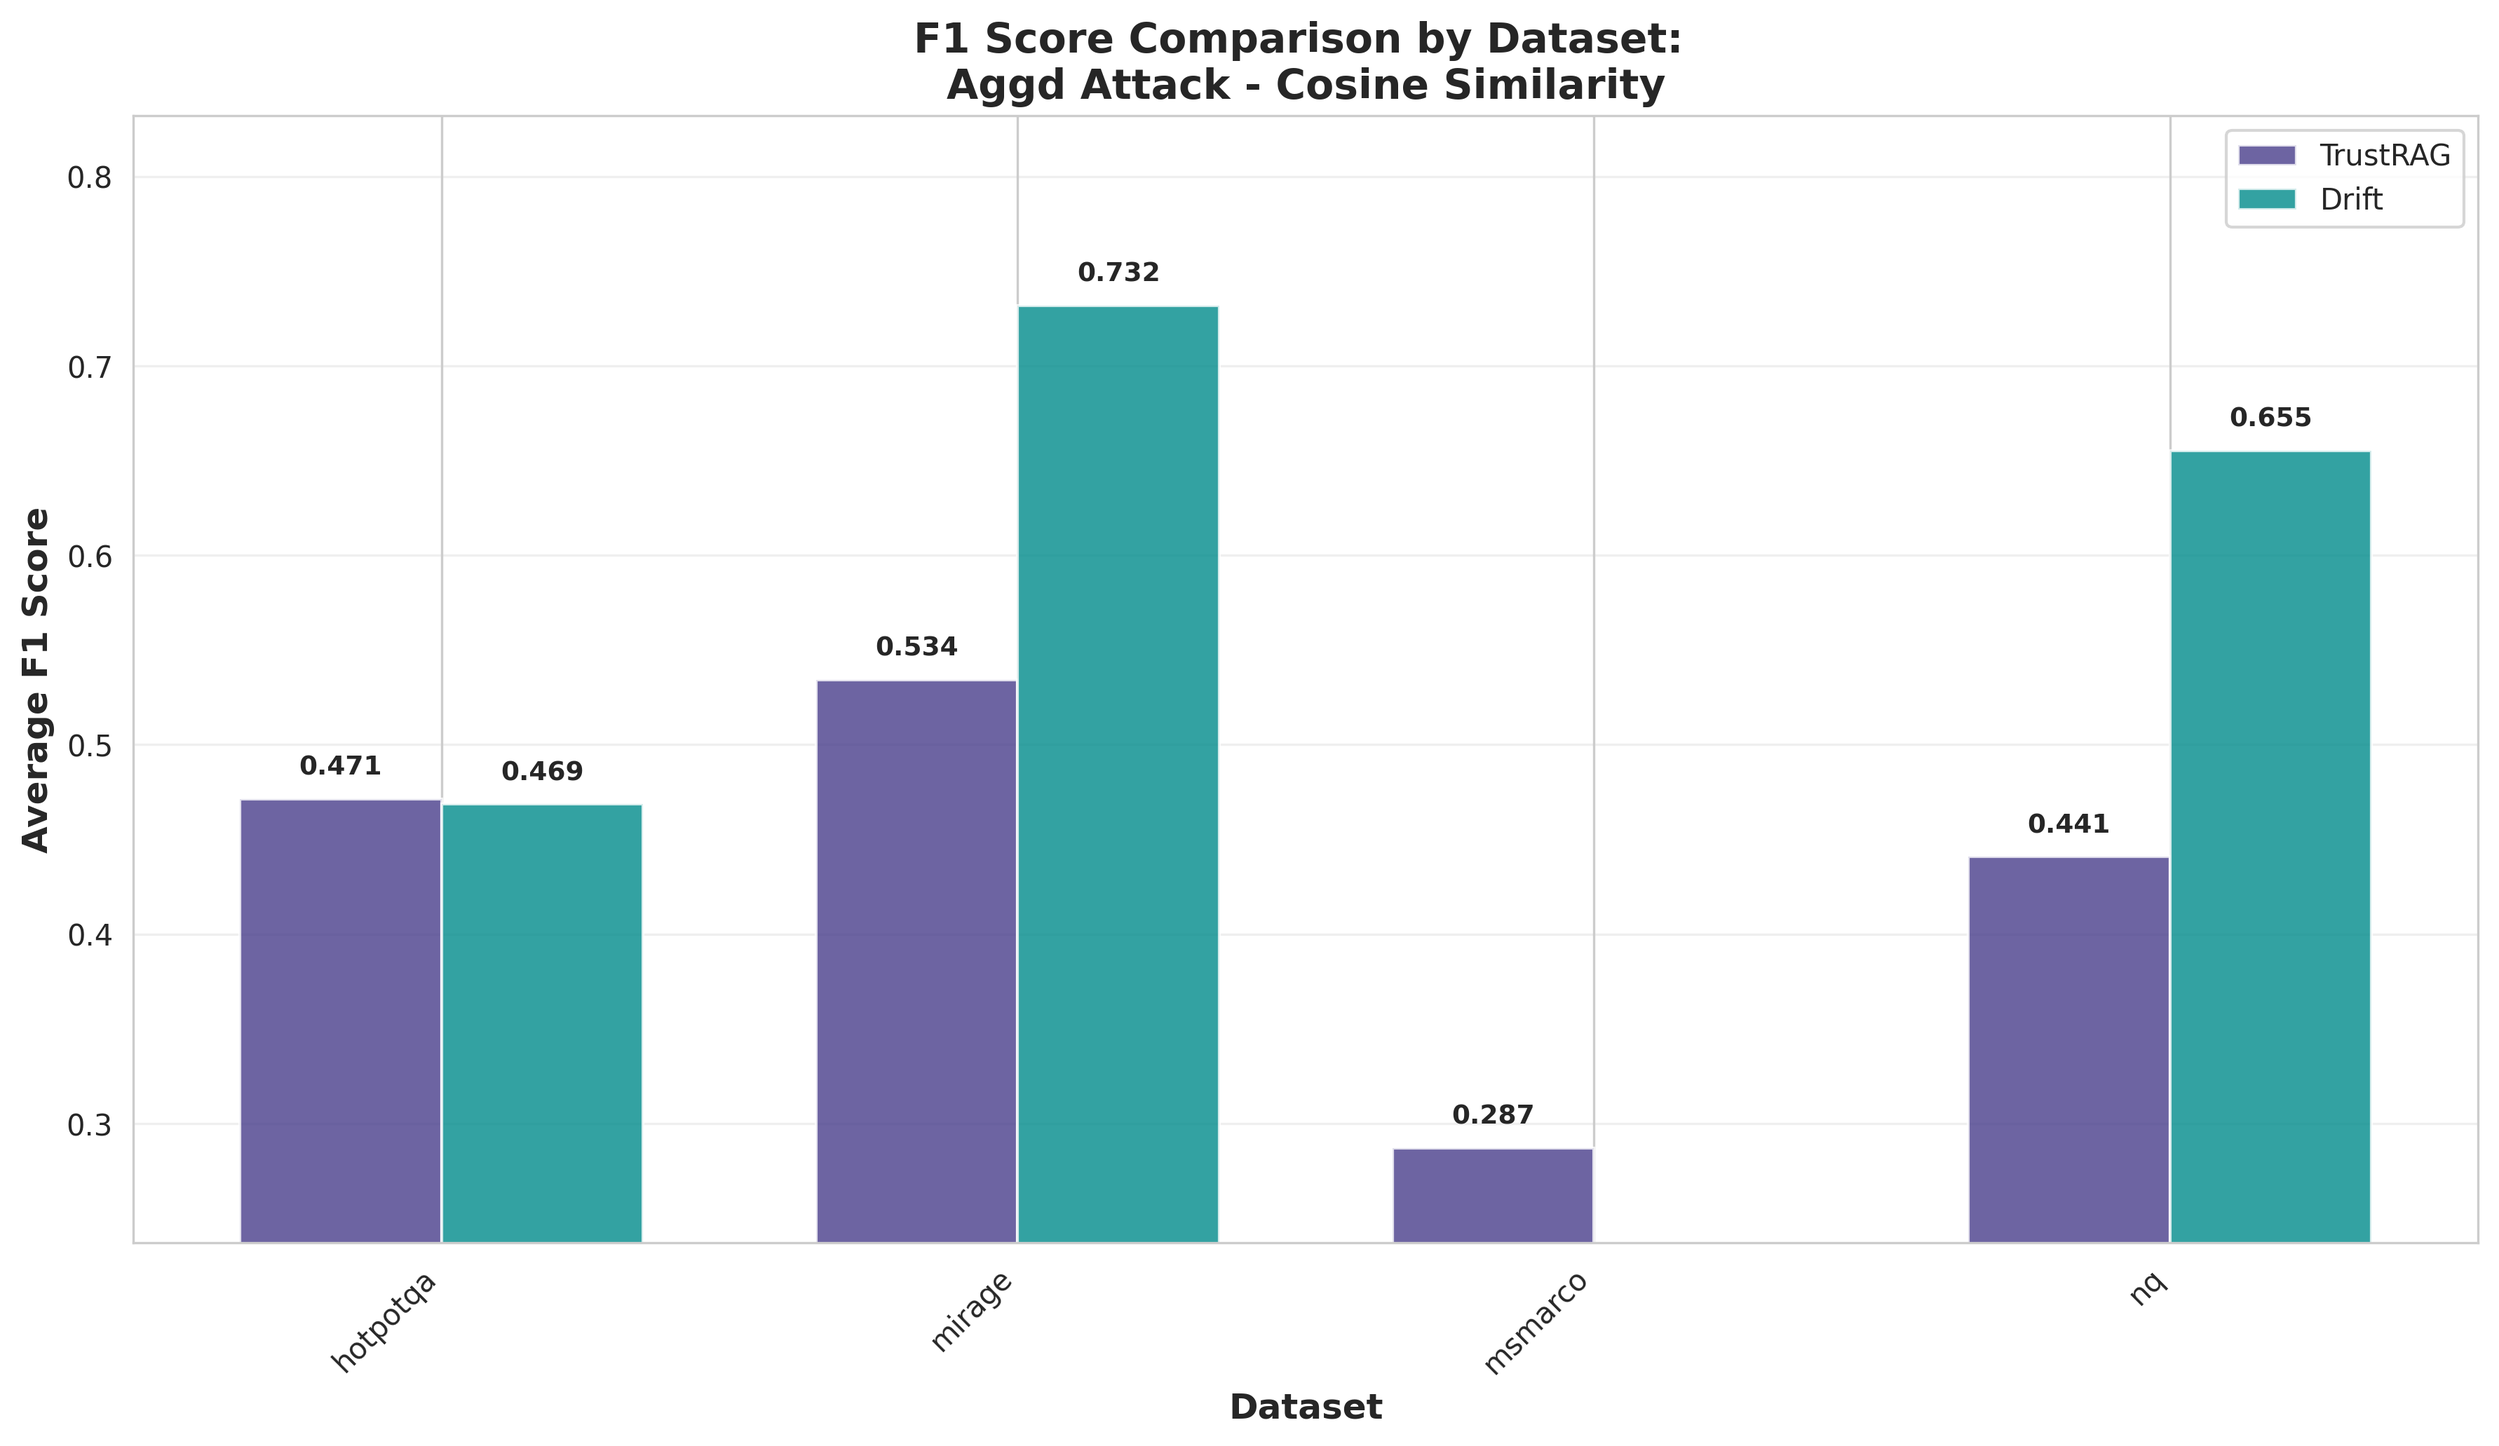
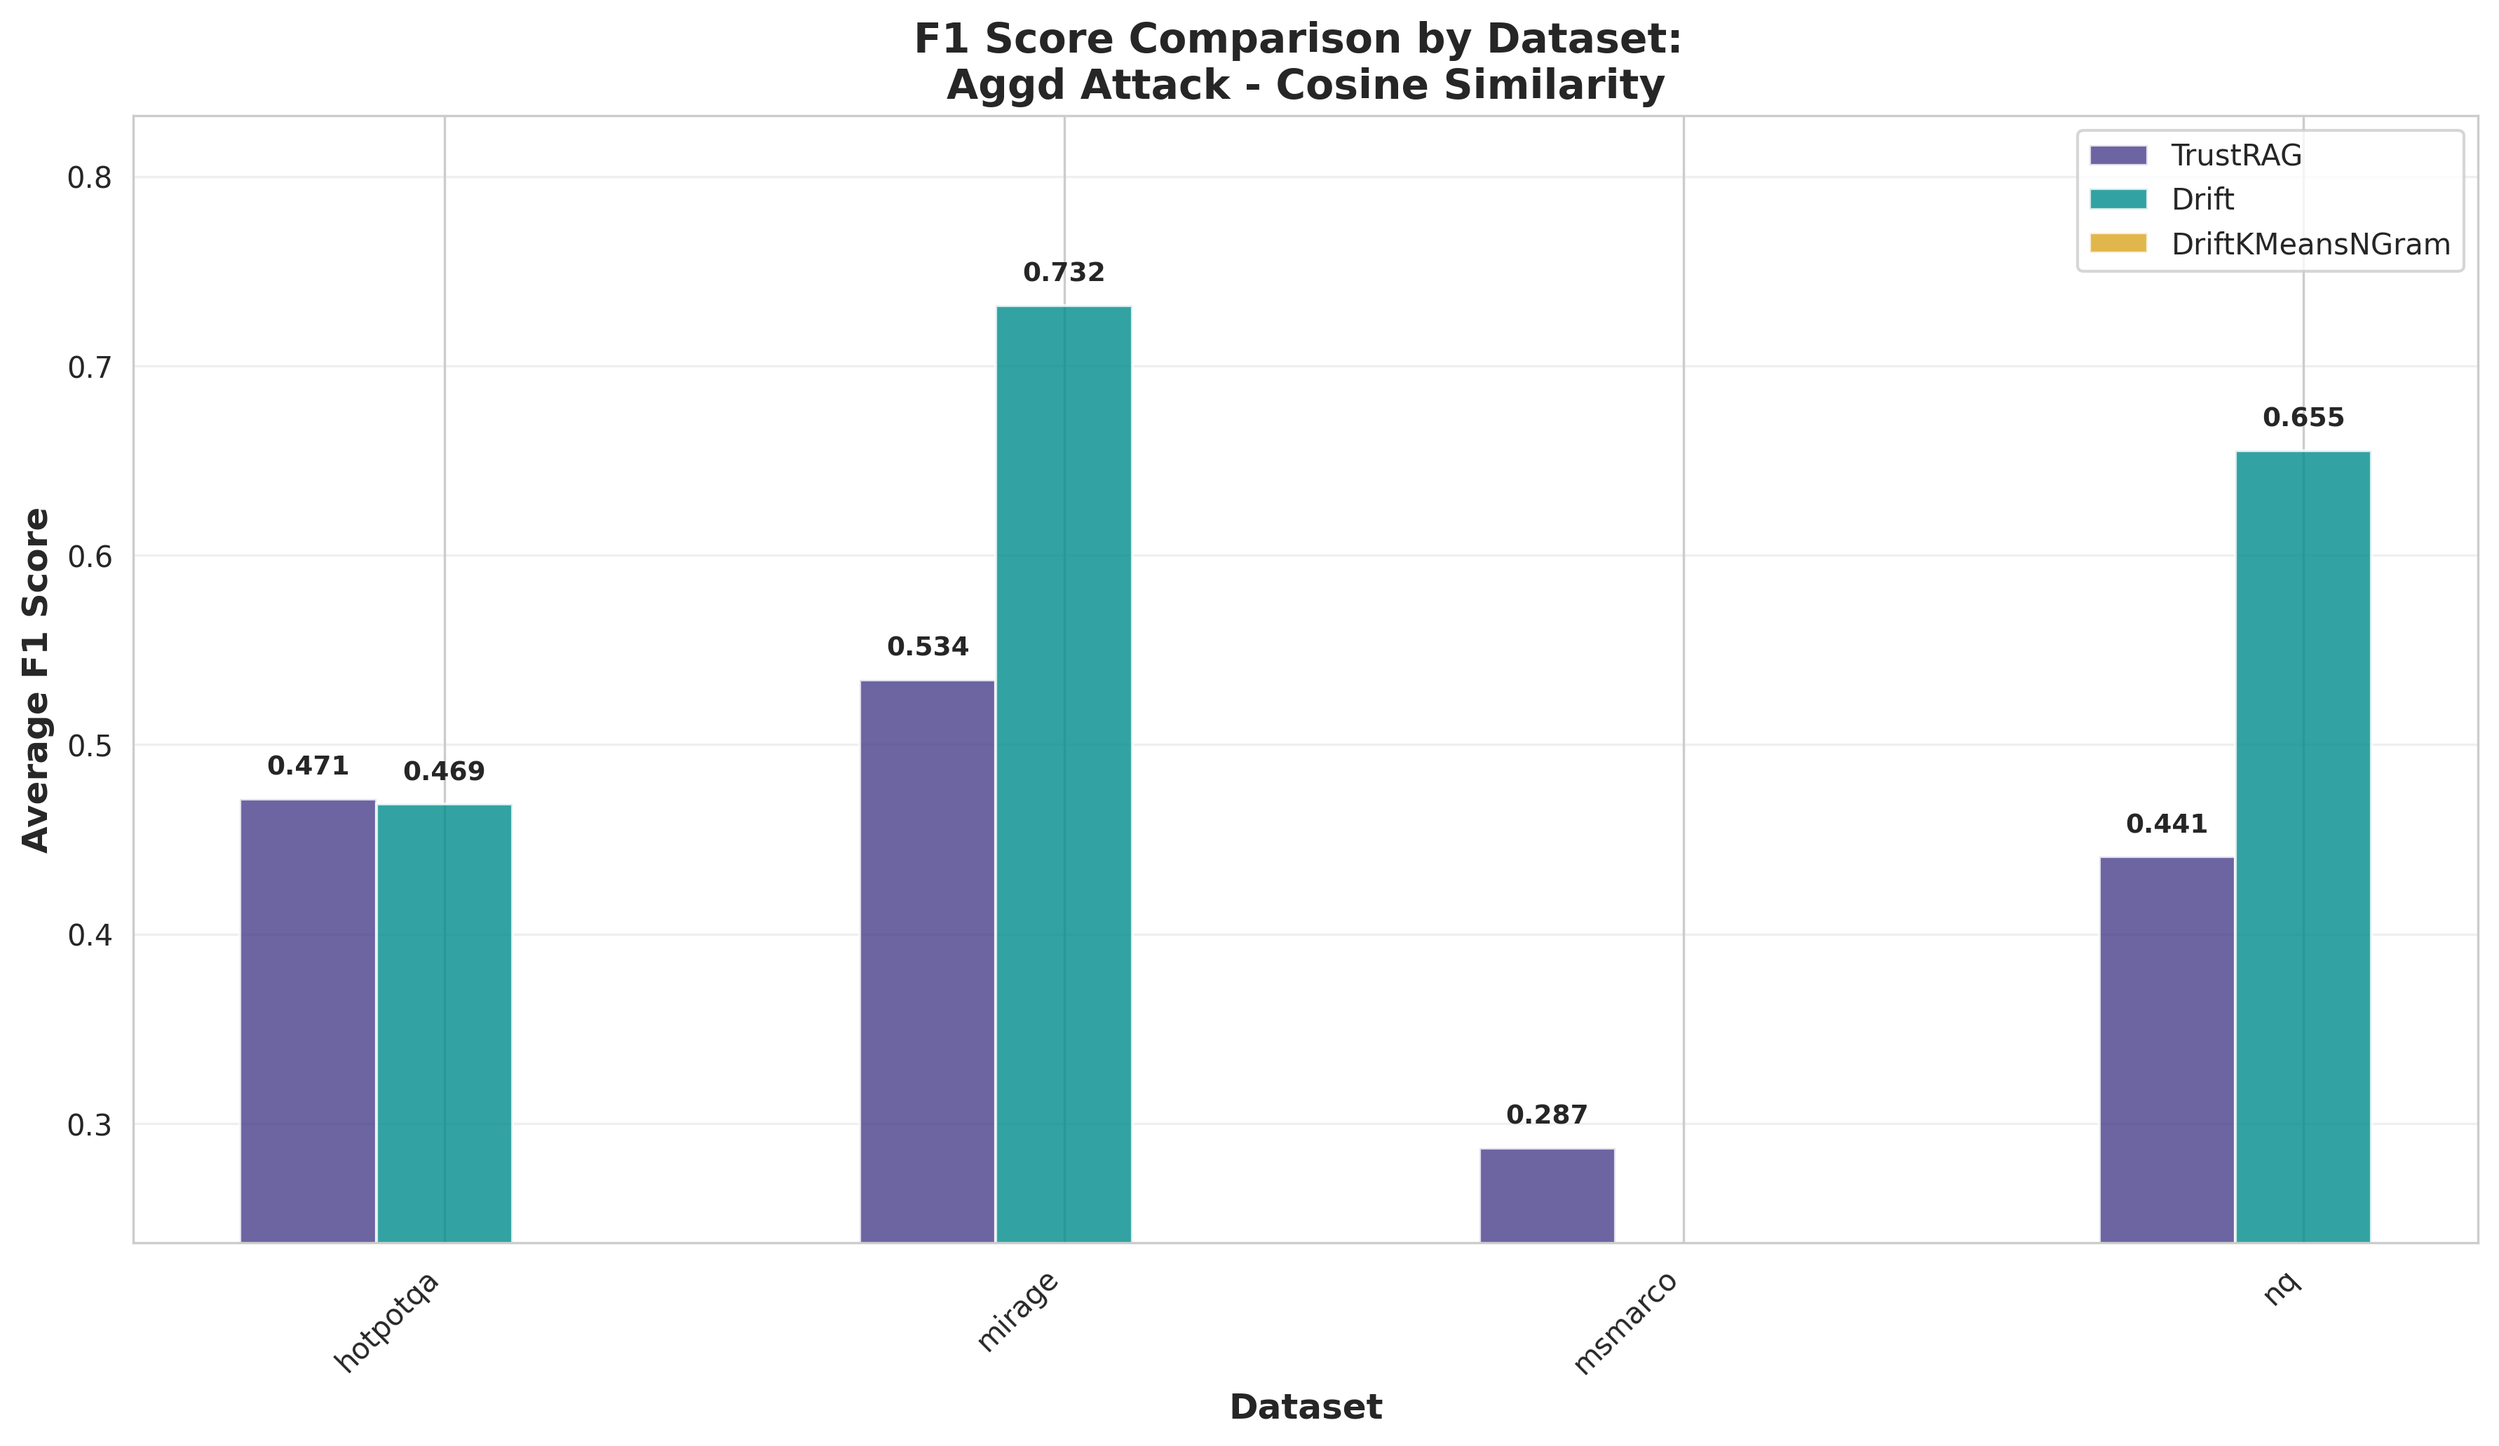
good wip

diff --git a/scripts/analyze_rag_logs.py b/scripts/analyze_rag_logs.py
@@ -579,21 +579,23 @@ class ExperimentAnalyzer:
                         )
 
     def create_dataset_performance_barplots(self):
-        """Create barplots comparing kmeans vs drift methods for each dataset."""
-        print("\n--- Creating Dataset Performance Barplots (KMeans vs Drift) ---")
+        """Create barplots comparing kmeans, drift, and drift_kmeans_ngram methods for each dataset."""
+        print(
+            "\n--- Creating Dataset Performance Barplots (KMeans, Drift, DriftKMeansNGram) ---"
+        )
 
         if not self.has_dataset:
             print("No dataset column found. Skipping dataset performance barplots.")
             return
 
-        # Filter data: only include "kmeans" and "drift" removal methods
+        # Filter data: only include "kmeans_ngram", "drift", and "drift_kmeans_ngram" removal methods
         filtered_data = self.df[
-            self.df["removal"].isin(["kmeans_ngram", "drift"])
+            self.df["removal"].isin(["kmeans_ngram", "drift", "drift_kmeans_ngram"])
         ].copy()
 
         if filtered_data.empty:
             print(
-                "No data available for kmeans or drift removal methods. Skipping dataset barplots."
+                "No data available for kmeans, drift, or drift_kmeans_ngram removal methods. Skipping dataset barplots."
             )
             return
 
@@ -607,7 +609,8 @@ class ExperimentAnalyzer:
             )
             return
 
-        attack_types = ["none", "hotflip", "aggd"]
+        # Update attack types to include blackbox_hotflip and aggd
+        attack_types = ["none", "hotflip", "aggd", "blackbox_hotflip"]
         score_functions = ["dot", "cos"]
 
         # Generate plots for each combination
@@ -648,11 +651,12 @@ class ExperimentAnalyzer:
 
                     # Prepare data for grouped bar plot
                     x = np.arange(len(datasets))
-                    width = 0.35
+                    width = 0.22
 
-                    # Get data for kmeans and drift methods
+                    # Get data for kmeans, drift, and drift_kmeans_ngram methods
                     kmeans_scores = []
                     drift_scores = []
+                    drift_kmeans_ngram_scores = []
 
                     for dataset in datasets:
                         dataset_data = avg_data[avg_data["dataset"] == dataset]
@@ -661,6 +665,9 @@ class ExperimentAnalyzer:
                             dataset_data["removal"] == "kmeans_ngram"
                         ]
                         drift_row = dataset_data[dataset_data["removal"] == "drift"]
+                        drift_kmeans_ngram_row = dataset_data[
+                            dataset_data["removal"] == "drift_kmeans_ngram"
+                        ]
 
                         kmeans_score = (
                             kmeans_row[metric].iloc[0]
@@ -670,13 +677,19 @@ class ExperimentAnalyzer:
                         drift_score = (
                             drift_row[metric].iloc[0] if not drift_row.empty else np.nan
                         )
+                        drift_kmeans_ngram_score = (
+                            drift_kmeans_ngram_row[metric].iloc[0]
+                            if not drift_kmeans_ngram_row.empty
+                            else np.nan
+                        )
 
                         kmeans_scores.append(kmeans_score)
                         drift_scores.append(drift_score)
+                        drift_kmeans_ngram_scores.append(drift_kmeans_ngram_score)
 
                     # Create bars
                     bars1 = plt.bar(
-                        x - width / 2,
+                        x - width,
                         kmeans_scores,
                         width,
                         label="TrustRAG",
@@ -684,16 +697,28 @@ class ExperimentAnalyzer:
                         alpha=0.8,
                     )
                     bars2 = plt.bar(
-                        x + width / 2,
+                        x,
                         drift_scores,
                         width,
                         label="Drift",
                         color="darkcyan",
                         alpha=0.8,
                     )
+                    bars3 = plt.bar(
+                        x + width,
+                        drift_kmeans_ngram_scores,
+                        width,
+                        label="DriftKMeansNGram",
+                        color="goldenrod",
+                        alpha=0.8,
+                    )
 
                     # Add value labels on bars
-                    for bars, scores in [(bars1, kmeans_scores), (bars2, drift_scores)]:
+                    for bars, scores in [
+                        (bars1, kmeans_scores),
+                        (bars2, drift_scores),
+                        (bars3, drift_kmeans_ngram_scores),
+                    ]:
                         for bar, score in zip(bars, scores):
                             if not np.isnan(score):
                                 height = bar.get_height()
@@ -730,7 +755,11 @@ class ExperimentAnalyzer:
 
                     # Set y-axis limits for better visualization
                     all_scores = [
-                        s for s in kmeans_scores + drift_scores if not np.isnan(s)
+                        s
+                        for s in kmeans_scores
+                        + drift_scores
+                        + drift_kmeans_ngram_scores
+                        if not np.isnan(s)
                     ]
                     if all_scores:
                         y_min = max(0, min(all_scores) - 0.05)
@@ -758,34 +787,52 @@ class ExperimentAnalyzer:
                 # Create combined plot showing all three metrics for this attack/score combination
                 if len(available_metrics) > 1:
                     self._create_combined_metrics_comparison_plot(
-                        avg_data, available_metrics, attack, score_func, datasets
+                        avg_data,
+                        available_metrics,
+                        attack,
+                        score_func,
+                        datasets,
+                        include_drift_kmeans_ngram=True,  # Pass flag to include new method
                     )
 
     def _create_combined_metrics_comparison_plot(
-        self, avg_data: pd.DataFrame, metrics, attack: str, score_func: str, datasets
+        self,
+        avg_data: pd.DataFrame,
+        metrics,
+        attack: str,
+        score_func: str,
+        datasets,
+        include_drift_kmeans_ngram=False,
     ):
-        """Create a combined plot comparing kmeans vs drift across all metrics."""
+        """Create a combined plot comparing kmeans, drift, and drift_kmeans_ngram across all metrics."""
         fig, axes = plt.subplots(1, len(metrics), figsize=(5 * len(metrics), 6))
         if len(metrics) == 1:
             axes = [axes]
 
-        colors = {"kmeans_ngram": "darkslateblue", "drift": "darkcyan"}
+        colors = {
+            "kmeans_ngram": "darkslateblue",
+            "drift": "darkcyan",
+            "drift_kmeans_ngram": "goldenrod",
+        }
 
         for idx, metric in enumerate(metrics):
             ax = axes[idx]
 
-            # Prepare data for this metric
             x = np.arange(len(datasets))
-            width = 0.35
+            width = 0.22
 
             kmeans_scores = []
             drift_scores = []
+            drift_kmeans_ngram_scores = []
 
             for dataset in datasets:
                 dataset_data = avg_data[avg_data["dataset"] == dataset]
 
                 kmeans_row = dataset_data[dataset_data["removal"] == "kmeans_ngram"]
                 drift_row = dataset_data[dataset_data["removal"] == "drift"]
+                drift_kmeans_ngram_row = dataset_data[
+                    dataset_data["removal"] == "drift_kmeans_ngram"
+                ]
 
                 kmeans_score = (
                     kmeans_row[metric].iloc[0] if not kmeans_row.empty else np.nan
@@ -793,13 +840,19 @@ class ExperimentAnalyzer:
                 drift_score = (
                     drift_row[metric].iloc[0] if not drift_row.empty else np.nan
                 )
+                drift_kmeans_ngram_score = (
+                    drift_kmeans_ngram_row[metric].iloc[0]
+                    if not drift_kmeans_ngram_row.empty
+                    else np.nan
+                )
 
                 kmeans_scores.append(kmeans_score)
                 drift_scores.append(drift_score)
+                drift_kmeans_ngram_scores.append(drift_kmeans_ngram_score)
 
             # Create bars
             bars1 = ax.bar(
-                x - width / 2,
+                x - width,
                 kmeans_scores,
                 width,
                 label="TrustRAG" if idx == 0 else "",
@@ -807,16 +860,33 @@ class ExperimentAnalyzer:
                 alpha=0.8,
             )
             bars2 = ax.bar(
-                x + width / 2,
+                x,
                 drift_scores,
                 width,
                 label="Drift" if idx == 0 else "",
                 color=colors["drift"],
                 alpha=0.8,
             )
+            if include_drift_kmeans_ngram:
+                bars3 = ax.bar(
+                    x + width,
+                    drift_kmeans_ngram_scores,
+                    width,
+                    label="DriftKMeansNGram" if idx == 0 else "",
+                    color=colors["drift_kmeans_ngram"],
+                    alpha=0.8,
+                )
 
             # Add value labels
-            for bars, scores in [(bars1, kmeans_scores), (bars2, drift_scores)]:
+            for bars, scores in [
+                (bars1, kmeans_scores),
+                (bars2, drift_scores),
+                (
+                    (bars3, drift_kmeans_ngram_scores)
+                    if include_drift_kmeans_ngram
+                    else ([], [])
+                ),
+            ]:
                 for bar, score in zip(bars, scores):
                     if not np.isnan(score):
                         height = bar.get_height()
